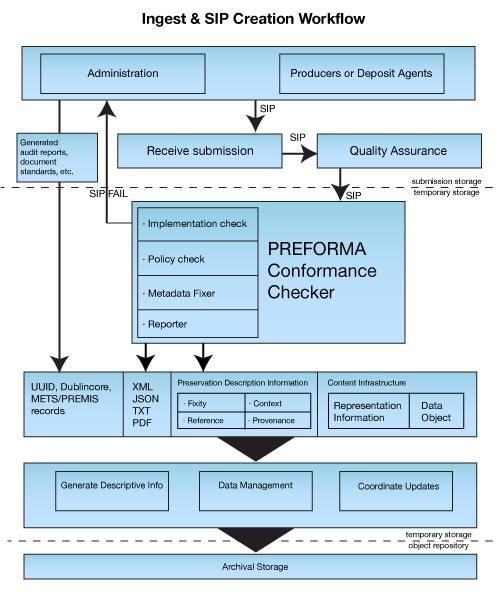
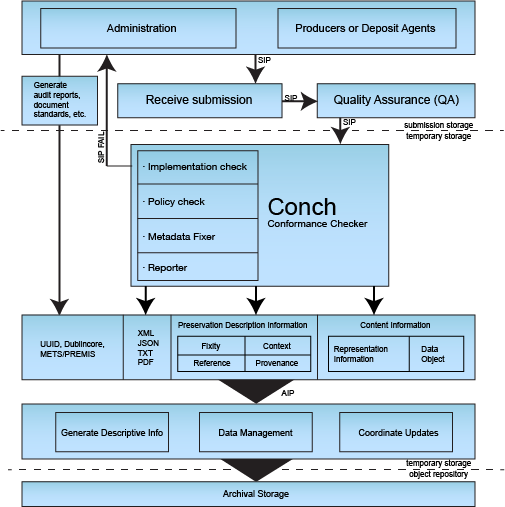
revised OAIS Ingest flowchart

diff --git a/DesignNarrative.md b/DesignNarrative.md
@@ -235,7 +235,7 @@ The OAIS reference model calls for the formation of conceptual containers known 
 
 Conformance checking services play a major role in the OAIS reference model. The Ingest QA function in particular validates SIPs in the temporary storage area prior to AIP generation. The PreForma conformance checker and its associated toolset would verify SIPs through implementation checking and policy checking with rules and specifications defined by the Archive. The resulting report would be submitted as associated Preservation Description Information (PDI). 
 
-![OAIS Ingest Workflow](./OAISIntegration.png)
+![The OAIS Ingest Functional Entity with Conch Integration](./OAISIntegration.png)
 
 Checking file integrity and conformance is also needed in the forming of an Archival Information Packages. As Archival Information Packages are generated for the Archive, a conformance checker would map all transformations through the collection of associated Representation, Content, and PDI information. Upon a dissemination request, reports created by the conformance checker would be used as descriptive information needed for the processing of objects for the Dissemination Information Package (DIP). For Matroska, individual sub-element CRCs can be submitted as Fixity Preservation Description Information and packaged with the AIP for long-term preservation. 
 
